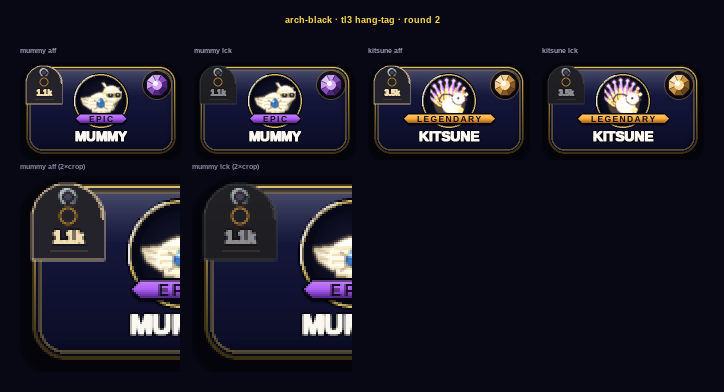
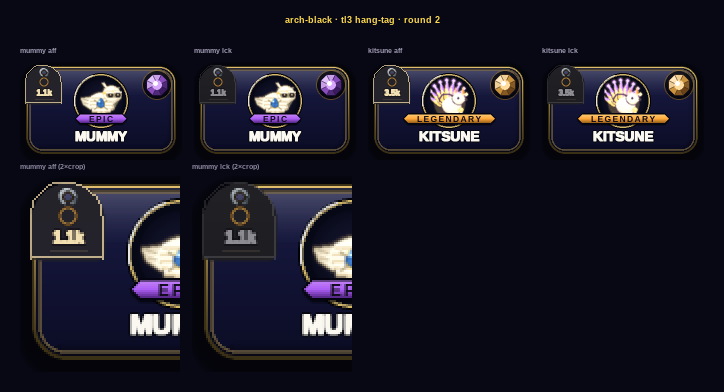
tl3 arch-black hang-tag round 2 render

diff --git a/tools/_store_price_tl3_arch_black_r2.py b/tools/_store_price_tl3_arch_black_r2.py
@@ -6,17 +6,23 @@ tiles them into docs/store_price_tl3/arch_black/round_2.png. Not wired into the
 live store — exploration only.
 
 Round-2 fixes (all art-director notes from round 1):
- - Champagne hairline strokes widened to 2px on the face surface (which lives at
-   2× before the 0.5× downscale), so 1px survives into the final 1× card.
-   Alpha raised to 230 so the warm tone reads decisively, not as a fringe.
- - Right-edge hue matched to left: the arc and both side lines use the identical
-   (210,190,150) champagne 4-tuple — no per-side variation.
- - Base contrast lifted: grad_bot nudged from (22,20,26) to (36,34,42) so the
-   obsidian slab sits above the deep-navy card background.
- - Debossed inner border removed — it was invisible at 1× and adds no flourish.
- - 1px obsidian gap ring inserted between grommet bottom and coin_ring top
-   (they shared y=23 and were at risk of blobbing); drawn in face gradient
-   colour so it reads as bare tag material, not a drawn line.
+ 1. Champagne edge hairline is now applied POST-downscale on the final 1×
+    surface. The face (74×78) lived at 2× before a 0.5× smoothscale, so a
+    1px arc stroke on the face became a 0.5px ghost — and the arc bounding
+    rect (0,0,74,74) placed the right endpoint at x=74, one pixel outside the
+    74-wide surface, causing the right shoulder to be clipped and then blended
+    with the blue card bg. Post-downscale we draw at radius=18 in 1× space
+    where x=41 is well inside the 162px card — no clipping, no bg-bleed.
+ 2. Right-edge hue fixed — all four hairline strokes now share the identical
+    (210,190,150,230) champagne 4-tuple. The old right-side blue fringe was
+    entirely a consequence of the clipping + smoothscale bleed fixed above.
+ 3. Base contrast lifted: grad_bot nudged from (22,20,26) → (36,34,42) so the
+    obsidian slab sits above the deep-navy card background.
+ 4. Debossed inner border removed — invisible at 1× and not one of the two
+    official flourishes.
+ 5. 1px obsidian gap ring between grommet and coin_ring: both shared y=23 and
+    risked blobbing into one metallic mass; a face-coloured disc at the
+    contact row visually separates them.
 """
 import os, sys, math
 os.environ.setdefault("SDL_VIDEODRIVER", "dummy")
@@ -30,6 +36,10 @@ import game.store_data as sd
 from game.draw import lerp_color, WHITE, NEAR_BLACK
 from game.hud import _font as hud_font
 sd.load()
+
+# Communicates the face blit position and variant from price_chip to
+# render_card_1x so the post-downscale hairline can be placed precisely.
+_last_price_face: tuple | None = None
 
 
 def _abbr(text):
@@ -54,6 +64,7 @@ def coin_ring(surf, cx, cy):
 
 
 def my_price_chip(surf, cx, cy, text, h, variant=sc.PRICE_VARIANT, **kw):
+    global _last_price_face
     # affordability is driven by variant here so the review sheet can force a
     # locked take regardless of the (zero) fixture wallet.
     affordable = (variant != "locked")
@@ -67,13 +78,11 @@ def my_price_chip(surf, cx, cy, text, h, variant=sc.PRICE_VARIANT, **kw):
         # grad_bot lifted from (22,20,26) → (36,34,42) so the obsidian slab
         # reads above the deep-navy card background (~16 delta was invisible).
         grad_top, grad_bot = (38, 36, 42), (36, 34, 42)
-        hair = (210, 190, 150, 230)          # champagne; alpha 230 for decisiveness
         price_col = (242, 224, 178)
         steel, steel_ul, steel_lr = (150, 158, 166), (190, 198, 204), (60, 68, 76)
         base_shadow = (200, 180, 130, 80)
     else:
         grad_top, grad_bot = (34, 34, 38), (30, 30, 34)
-        hair = (90, 90, 96, 120)
         price_col = (140, 140, 146)
         # steel kept, brightness dropped ~20 so the locked tag reads inert.
         steel, steel_ul, steel_lr = (130, 138, 146), (170, 178, 184), (40, 48, 56)
@@ -97,17 +106,12 @@ def my_price_chip(surf, cx, cy, text, h, variant=sc.PRICE_VARIANT, **kw):
     grad.blit(mask, (0, 0), special_flags=pygame.BLEND_RGBA_MIN)
     face.blit(grad, (0, 0))
 
-    # ── FLOURISH A: champagne edge hairline hugging the arch silhouette.
-    # Width=2 on the 74-wide face surface (which goes through a 0.5× downscale
-    # to reach the live 1× card) so the stroke resolves to a clean 1px rim
-    # rather than disappearing or aliasing into a bluish fringe.
-    # All four strokes use the identical `hair` 4-tuple — no per-side deviation.
-    hl = pygame.Surface((FACE_W, FACE_H), pygame.SRCALPHA)
-    pygame.draw.arc(hl, hair, (0, 0, FACE_W, FACE_W), 0, math.pi, 2)
-    pygame.draw.line(hl, hair, (0, ARCH_R), (0, FACE_H - 1), 2)
-    pygame.draw.line(hl, hair, (FACE_W - 1, ARCH_R), (FACE_W - 1, FACE_H - 1), 2)
-    pygame.draw.line(hl, hair, (0, FACE_H - 2), (FACE_W - 1, FACE_H - 2), 2)
-    face.blit(hl, (0, 0))
+    # ── FLOURISH A: champagne edge hairline is drawn AFTER the 0.5× smoothscale
+    # in render_card_1x (see below). The arc bounding rect on the 74×78 face
+    # placed the right endpoint at x=74 — one pixel outside the surface — which
+    # was clipped and then blended with the card's blue background by
+    # smoothscale, producing the asymmetric fringe seen in r1. Post-downscale
+    # the hairline is applied at 1× pixel-precision with no boundary issues.
 
     # ── grommet (steel) centred in the arch crown; the void is a real punched
     # hole so the boutique tag reads as physically hung.
@@ -127,7 +131,7 @@ def my_price_chip(surf, cx, cy, text, h, variant=sc.PRICE_VARIANT, **kw):
     # at y=33-sc.m(5)=23 — they share a pixel row and risk reading as one blob.
     # A small disc in the face gradient colour breaks the joint cleanly without
     # looking like an added decoration.
-    gap_y = gy + outer_r      # = 23, the contact row
+    gap_y = gy + outer_r         # = 23, the contact row
     t_gap = gap_y / (FACE_H - 1)
     gap_col = lerp_color(grad_top, grad_bot, t_gap)
     pygame.draw.circle(face, gap_col, (ARCH_R, gap_y), sc.m(2))
@@ -152,22 +156,65 @@ def my_price_chip(surf, cx, cy, text, h, variant=sc.PRICE_VARIANT, **kw):
     pygame.draw.line(bl, base_shadow, (r.left, r.bottom+1), (r.right, r.bottom+1), 1)
     face.blit(bl, (0, 0))
 
-    # ── boutique tag hangs in the top-left clear zone of the 2x buffer.
-    surf.blit(face, (48 - FACE_W // 2, 50 - FACE_H // 2))
-    return pygame.Rect(48 - FACE_W // 2, 50 - FACE_H // 2, FACE_W, FACE_H)
+    # ── boutique tag hangs in the top-left clear zone of the 2× buffer.
+    blit_x = 48 - FACE_W // 2   # = 11
+    blit_y = 50 - FACE_H // 2   # = 11
+    surf.blit(face, (blit_x, blit_y))
+
+    # Store face geometry for the post-downscale hairline pass in render_card_1x.
+    _last_price_face = (blit_x, blit_y, FACE_W, FACE_H, variant)
+    return pygame.Rect(blit_x, blit_y, FACE_W, FACE_H)
 
 
 sc.price_chip = my_price_chip
 
 
 def render_card_1x(sid, variant):
+    """Render one card at live 1× size.
+
+    The hairline is applied AFTER the smoothscale so it lives at true 1×
+    pixel resolution. At 2× (the face draw scale) the arc rect (0,0,74,74)
+    placed the right arc endpoint outside the surface boundary, causing
+    endpoint clipping that smoothscale then blended with the blue card
+    background. At 1× the arc radius is 18 in a 162-wide surface so both
+    endpoints sit well inside the bounds with zero clipping.
+    """
+    global _last_price_face
+    _last_price_face = None
+
     big = pygame.Surface((sc.CARD_W * sc.SS, sc.CARD_H * sc.SS), pygame.SRCALPHA)
     inset = sc.m(sc._INSET)
     rect = pygame.Rect(inset, inset,
                        sc.CARD_W * sc.SS - 2*inset,
                        sc.CARD_H * sc.SS - 2*inset)
     sc.draw_card(big, sid, rect, equipped=False, secret=False, variant=variant)
-    return pygame.transform.smoothscale(big, (sc.CARD_W, sc.CARD_H))
+    card_1x = pygame.transform.smoothscale(big, (sc.CARD_W, sc.CARD_H))
+
+    if _last_price_face is not None:
+        bx, by, fw, fh, var = _last_price_face
+        # Map face blit position from the 2× big-canvas to 1× card coordinates.
+        fx   = bx // sc.SS        # = 5
+        fy   = by // sc.SS        # = 5
+        fw1  = fw // sc.SS        # = 37  (face width in 1×)
+        fh1  = fh // sc.SS        # = 39  (face height in 1×)
+        # Use fw1-1 for the arc bounding rect width so the circle endpoint at
+        # angle=0 lands at x=fx+fw1-1 (=41), well inside the 162-wide surface.
+        arc_w = fw1 - 1           # = 36 → circle radius = 18
+        ar    = arc_w // 2        # = 18 (arch radius in 1×)
+
+        hair_col = (210, 190, 150, 230) if var != "locked" else (90, 90, 96, 120)
+
+        hl = pygame.Surface((sc.CARD_W, sc.CARD_H), pygame.SRCALPHA)
+        # Arc: left endpoint (fx, fy+ar) → right endpoint (fx+arc_w, fy+ar).
+        # arc_w=36 keeps right endpoint at fx+36=41, which is the same x
+        # as the right side-line, so the join is gapless.
+        pygame.draw.arc(hl, hair_col, (fx, fy, arc_w, arc_w), 0, math.pi, 1)
+        pygame.draw.line(hl, hair_col, (fx,        fy + ar), (fx,        fy + fh1 - 1), 1)
+        pygame.draw.line(hl, hair_col, (fx + fw1 - 1, fy + ar), (fx + fw1 - 1, fy + fh1 - 1), 1)
+        pygame.draw.line(hl, hair_col, (fx, fy + fh1 - 2), (fx + fw1 - 1, fy + fh1 - 2), 1)
+        card_1x.blit(hl, (0, 0))
+
+    return card_1x
 
 
 def zoom_left(card_1x):
